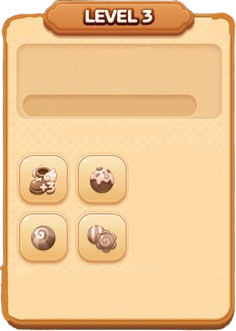
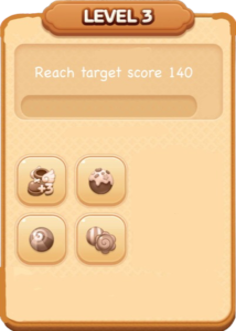
update stage 3

diff --git a/src/App.cpp b/src/App.cpp
@@ -84,6 +84,7 @@ void App::Update() {
                 if ( get_stage != 0 ){
                     m_stage_pos = get_stage;
                     m_Jump_Page->PlayPage( m_stage_pos );
+                    m_Jump_Page->SetStatus( JUMP_PLAY );
                 } 
                 if ( m_Jump_Page->ifClickWithPlayButtom() ) {
                     SetUpStage( m_stage_pos );
@@ -106,6 +107,12 @@ void App::Update() {
                         m_Stage_Object[2]->AppearAll();
                         m_Stage_Object[2]->SetStage( 2 );
                         m_Text_Point->Initial( 2 );
+                        // m_Stage_Object[2]->GetStageObject()[37]->SetImage( COOKIE_TWO_IMAGE );
+                        // m_Stage_Object[2]->GetStageObject()[37]->SetBlockType( ONE_LAYER_COOKIE_OBJECT );
+                        // m_Stage_Object[2]->GetStageObject()[37]->SetCurrentType( TWO_LAYER_COOKIE_OBJECT );
+                        // m_Stage_Object[2]->GetStageObject()[37]->SetBlock( NO_COLOR );
+                        // m_Stage_Object[2]->GetStageObject()[37]->SetAppearBool( true );
+                        // m_Stage_Object[2]->GetStageObject()[37]->SetGenerate( false );
                         currentPhase = PHASE_NORMAL;
                         m_Phase = Phase::STAGE_2;
                     }
@@ -125,12 +132,15 @@ void App::Update() {
                     m_Jump_Page->AllDisappear();
                     m_Jump_Page->InfoPage( m_stage_pos );
                 }
-                if ( m_Jump_Page->ifClickWithCancelButtom() ) {
+                if ( m_Jump_Page->ifClickWithCancelButtom() && m_Jump_Page->GetStatus() == JUMP_INFO ) {
                     m_Jump_Page->AllDisappear();
-                    if ( m_Jump_Page->GetStatus() == JUMP_INFO )
-                        m_Jump_Page->PlayPage( m_stage_pos );
-                    else
-                        m_stage_pos = 0;
+                    m_Jump_Page->PlayPage( m_stage_pos );
+                    m_Jump_Page->SetStatus( JUMP_PLAY );
+                }
+                else if (m_Jump_Page->ifClickWithCancelButtom() && m_Jump_Page->GetStatus() == JUMP_PLAY ) {
+                    m_Jump_Page->AllDisappear();
+                    m_Jump_Page->SetStatus( JUMP_NORMAL );
+                    m_stage_pos = 0;
                 }
             }
             break;

diff --git a/src/StageObject.cpp b/src/StageObject.cpp
@@ -494,8 +494,9 @@ void StageObject::Dropping() {
     }
     for ( int i = 1 ; i < m_Size+1 ; ++i ) {
         if ( !m_Stage_Object[i]->GetAppearBool() && m_Stage_Object[i]->GetCurrentType() == ONE_LAYER_COOKIE_OBJECT ) {
+            printf( "testing\n" );
             m_Stage_Object[i]->SetImage( COOKIE_ONE_IMAGE );
-            m_Stage_Object[i]->SetBlock( ONE_LAYER_COOKIE_OBJECT );
+            m_Stage_Object[i]->SetBlock( NO_COLOR );
             m_Stage_Object[i]->SetBlockType( NORMAL_OBJECT );
         }
         else if ( !m_Stage_Object[i]->GetAppearBool() ) {
@@ -557,9 +558,7 @@ void StageObject::GoalUpdate( int i ) {
             }
             break;
         case 3:
-            if ( m_Stage_Object[i]->GetBlockType() == BROWN_OBJECT ) {
-                stage_goal_counter[3]--;
-            }
+            // stage_goal_counter[3]--;
             break;
         default:
             break;
@@ -1258,7 +1257,7 @@ void StageObject::DisappearBySingleObject( int current_pos, int side, int length
 }
 
 void StageObject::Dropping_method( const int current_position ) {
-    if ( !m_Stage_Object[current_position] || m_Stage_Object[current_position]->GetInformationNeibor()[0] == -1  || !m_Stage_Object[m_Stage_Object[current_position]->GetInformationNeibor()[0]])
+    if ( !m_Stage_Object[current_position] || m_Stage_Object[current_position]->GetInformationNeibor()[0] == -1  || !m_Stage_Object[m_Stage_Object[current_position]->GetInformationNeibor()[0]] || m_Stage_Object[current_position]->GetCurrentType() == ONE_LAYER_COOKIE_OBJECT || m_Stage_Object[current_position]->GetCurrentType() == TWO_LAYER_COOKIE_OBJECT )
         return;
     if ( current_position < m_Size+1 ) {
         int next_position; 
@@ -1348,12 +1347,6 @@ void StageObject::SetUp( int stage ) {
     }
     InitializeStageCharacter( stage );
     CheckAppearance( 0 );
-    m_Stage_Object[37]->SetImage( COOKIE_TWO_IMAGE );
-    m_Stage_Object[37]->SetBlockType( ONE_LAYER_COOKIE_OBJECT );
-    m_Stage_Object[37]->SetCurrentType( TWO_LAYER_COOKIE_OBJECT );
-    m_Stage_Object[37]->SetBlock( NO_COLOR );
-    m_Stage_Object[37]->SetAppearBool( true );
-    m_Stage_Object[37]->SetGenerate( false );
 }
 
 void StageObject::CheckClickSwitch( int check , int i , std::shared_ptr<TaskText> point ) {

diff --git a/include/JumpPage.hpp b/include/JumpPage.hpp
@@ -22,6 +22,8 @@ class JumpPage : public Character {
                 this->SetImage( GA_RESOURCE_DIR"/Image/Background/stage1Info.png");
             if ( stage == 2 )
                 this->SetImage( GA_RESOURCE_DIR"/Image/Background/stage2Info.png");
+            if ( stage == 3 )
+                this->SetImage( GA_RESOURCE_DIR"/Image/Background/stage3Info.png");
             this->SetVisible( true );
             SetStatus( JUMP_INFO );
         }
@@ -36,7 +38,7 @@ class JumpPage : public Character {
                 this->SetImage( GA_RESOURCE_DIR"/Image/Background/stage2Start.png" );
             else if ( stage == 3 )
                 this->SetImage( GA_RESOURCE_DIR"/Image/Background/stage3Start.png" );
-                this->SetVisible( true );
+            this->SetVisible( true );
             SetStatus( JUMP_PLAY );
         }
 

diff --git a/src/Global.cpp b/src/Global.cpp
@@ -75,7 +75,7 @@ glm::vec2 stage_goal_position[13] = {
     {-100000, -100000},
     { -100 , 225 },
     { -100 , 255.5f },
-    { -100 , 225 },
+    { -100 , 235 },
     {-100000, -100000},
     {-100000, -100000},
     {-100000, -100000},
@@ -104,18 +104,18 @@ glm::vec2 point_position[13] = {
 };
 
 int stage_point_goal[13] = {
-    0, 15, 15, 40, 40, 40, 40, 40, 40, 40, 40, 40, 40
+    0, 15, 15, 140, 40, 40, 40, 40, 40, 40, 40, 40, 40
 };
 
 int stage_goal_counter[13] = {
-    0, 15, 15, 40, 40, 40, 40, 40, 40, 40, 40, 40, 40
+    0, 15, 15, 140, 40, 40, 40, 40, 40, 40, 40, 40, 40
 };
 
 char stage_goal_type[13][30] = {
     "",
     "Remove Brown Object",
     "Remove Brown Object",
-    "Remove Brown Object",
+    "Reach Score",
     "",
     "",
     "",

diff --git a/include/App.hpp b/include/App.hpp
@@ -99,7 +99,7 @@ public:
             m_Stage_Object[3] = std::make_shared<StageObject>( 47 , m_Stage_Object_GameCharacter );
             m_Stage_Object[3]->SetStage( 0 );
             m_Root.AddChild( m_Stage_Object[3] );
-            m_Stage_Goal_Object_Show = std::make_shared<GameCharacter>( BROWN_NORMAL_OBJECT );
+            m_Stage_Goal_Object_Show = std::make_shared<GameCharacter>( REACH_IMAGE );
             m_Stage_Goal_Object_Show->SetPosition( stage_goal_position[3] );
             m_Stage_Goal_Object_Show->SetVisible( true );
             m_Root.AddChild( m_Stage_Goal_Object_Show );

diff --git a/include/Global.hpp b/include/Global.hpp
@@ -44,7 +44,7 @@
 #define ONE_LAYER_COOKIE_OBJECT 31
 #define TWO_LAYER_COOKIE_OBJECT 32
 
-
+#define REACH_IMAGE GA_RESOURCE_DIR"/Image/GameObject/reach.png"
 
 #define EMPTY_OBJECT GA_RESOURCE_DIR"/Image/GameObject/emptyObject.png"
 

diff --git a/README.md b/README.md
@@ -76,10 +76,10 @@
   - [x] 開發新手教學與規則查找區功能
 - Week 7：初級關卡完成、中級關卡設計與特殊障礙方塊功能開發
   - [ ] 完成第 3 關卡
-  - [ ] 蒐集中級關卡所需之各種特殊障礙方塊素材
-  - [ ] 開發特殊障礙方塊消除系統
-  - [ ] 開發特殊障礙方塊掉落系統
-  - [ ] 串接大廳與 1 ~ 3 關卡之跳轉、各區塊等功能
+  - [x] 蒐集中級關卡所需之各種特殊障礙方塊素材
+  - [x] 開發特殊障礙方塊消除系統
+  - [x] 開發特殊障礙方塊掉落系統
+  - [x] 串接大廳與 1 ~ 3 關卡之跳轉、各區塊等功能
 - Week 8：中級關卡開發
   - [ ] 完成第 4 關卡
   - [ ] 完成第 5 關卡
